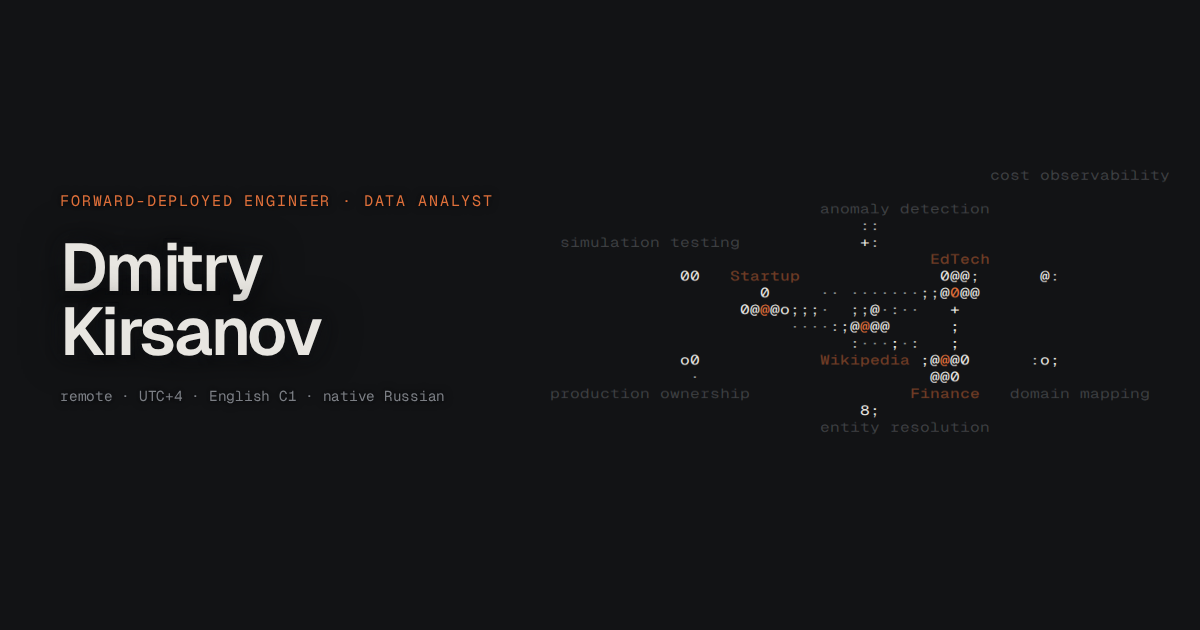
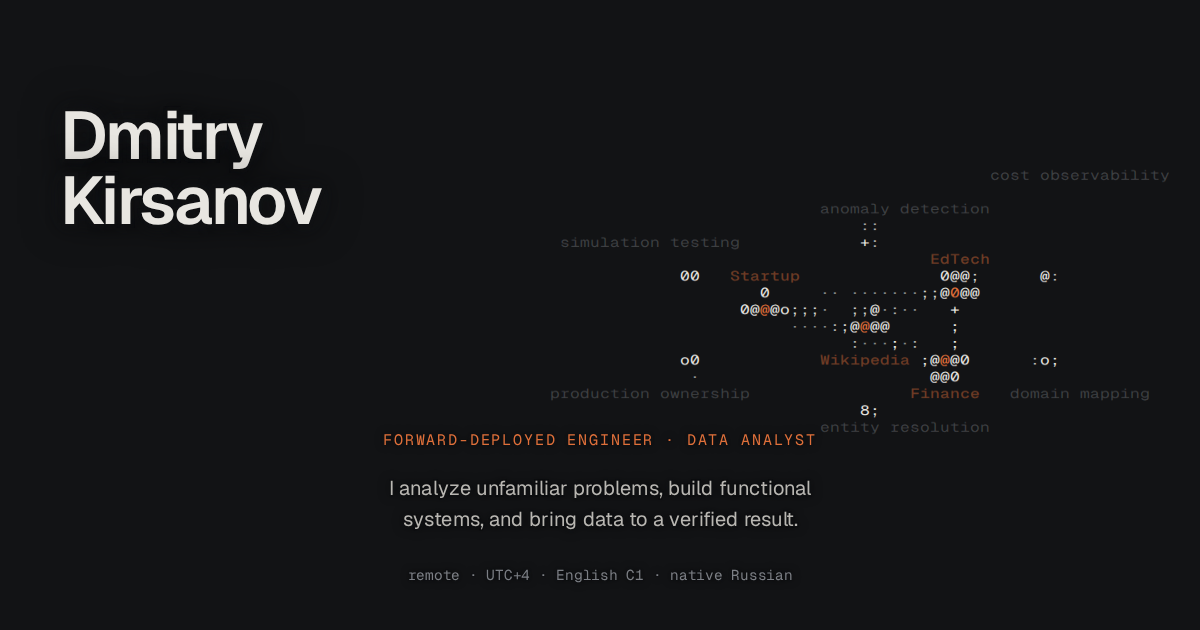
Hero: name at top, role and description bottom-centre; Cases as a section heading; case and Your Thing "+" as dark buttons; Other projects links shown without "+"; contact buttons of equal width, stacked on phones

diff --git a/src/landing.css b/src/landing.css
@@ -26,17 +26,22 @@ nav .cta{background:var(--ink);color:var(--bg);padding:8px 15px;border-radius:2p
 /* ——— хиро ——— */
 .hero{position:relative;height:100svh;min-height:600px}
 .hero canvas{position:absolute;inset:0;width:100%;height:100%}
-.hero .txt{position:absolute;left:var(--pad);top:50%;transform:translateY(-50%);max-width:min(48ch,44vw);
+.hero .txt{position:absolute;inset:calc(58px + clamp(20px,5vh,64px)) var(--pad) clamp(28px,7vh,72px);
+           display:flex;flex-direction:column;justify-content:space-between;align-items:flex-start;pointer-events:none;
            opacity:0;transition:opacity .7s ease;will-change:opacity}   /* свой слой заранее: появление — работа композитора, canvas не ждёт (10.10) */
+/* 28.10: имя — вверху слева, роль, описание и статус — внизу по центру; фигура между ними, текст на неё не ложится */
+.hero .txt > *{pointer-events:auto}
+.hero__low{align-self:center;text-align:center;max-width:56ch;text-wrap:balance}   /* строки описания ровные, без висячего слова */
 .hero .txt.on{opacity:1}
 /* тёмный ореол от букв: текст хиро лежит поверх поля знаков (08.10) */
 .hero .txt .role,.hero h1,.hero p.lead,.status{paint-order:stroke fill;-webkit-text-stroke:.12em var(--bg);text-shadow:0 0 .25em var(--bg),0 0 .6em var(--bg)}
 /* было 16 слоёв text-shadow с размытием до 60 px: растеризация такого слоя при появлении текста замораживала
    главный поток на ~0,3 с в середине отъезда фигуры (видео 10.10). Теперь обводка под буквами + два слоя */
-.hero h1{font-size:clamp(40px,5.6vw,80px);line-height:.96;letter-spacing:-.035em;font-weight:600;margin:0 0 16px}
+.hero h1{font-size:clamp(40px,5.6vw,80px);line-height:.96;letter-spacing:-.035em;font-weight:600;margin:0}
 .role{font-family:var(--mono);font-size:12px;letter-spacing:.14em;text-transform:uppercase;color:var(--accent);margin:0 0 18px}
 .hero p.lead{font-size:clamp(16px,1.35vw,20px);color:var(--mid);margin:0 0 22px}
-.status{font-family:var(--mono);font-size:11.5px;color:var(--dim);margin:0 0 26px}
+.status{font-family:var(--mono);font-size:11.5px;color:var(--dim);margin:0}
+.hero__low .btn{margin-top:26px}
 .btn{display:inline-block;background:var(--ink);color:var(--bg);text-decoration:none;font-weight:500;
      font-size:14.5px;padding:12px 22px;border-radius:2px}
 .btn.ghost{background:transparent;color:var(--ink);border:1px solid var(--line)}
@@ -56,10 +61,11 @@ h2{font-size:clamp(28px,3.4vw,46px);line-height:1.05;letter-spacing:-.025em;font
  a.case:hover{background:linear-gradient(90deg,rgba(224,112,58,.07),transparent 60%)}
 .case .tag{font-family:var(--mono);font-size:12px;color:var(--accent);letter-spacing:.02em}
 .case p.case__org{color:var(--mid);margin:0 0 8px;max-width:62ch}   /* 09.10: один блок, без мелкого серого моно */
-.case h3 button.case__t{appearance:none;background:none;border:0;padding:0;cursor:pointer;text-align:left;color:var(--ink);font:inherit;letter-spacing:inherit}
+/* 28.10: заголовки с «+» — тёмные кнопки, как .btn.ghost */
+.case h3 button.case__t{appearance:none;background:transparent;border:1px solid var(--line);border-radius:2px;padding:.4em .8em;margin:0 0 4px;cursor:pointer;text-align:left;color:var(--ink);font:inherit;letter-spacing:inherit}
 .case h3 button.case__t::after{content:' +';color:var(--accent);font-family:var(--mono);font-weight:400}
 .case h3 button.case__t[aria-expanded=true]::after{content:' –'}
-@media (hover:hover){.case h3 button.case__t:hover{color:var(--accent)}}
+@media (hover:hover){.case h3 button.case__t:hover{color:var(--accent);border-color:var(--dim)}}
 .case__more{margin:6px 0 0}
 .case__more[hidden]{display:none}
 .case__pts{margin:10px 0 0;padding:0 0 0 1.1em;color:var(--mid);font-size:15.5px;max-width:62ch}
@@ -103,12 +109,8 @@ a.al::after{content:' →';color:var(--accent);font-family:var(--mono);font-weig
 .links{display:flex;gap:12px;flex-wrap:wrap;margin:30px 0 0}
 .arts{display:grid;grid-template-columns:repeat(2,1fr);gap:0 40px}
 .art{display:block;border-top:1px solid var(--line);padding:20px 0}
-button.al{appearance:none;background:none;border:0;padding:0;cursor:pointer;text-align:left;color:var(--ink);font-family:var(--sans);font-size:16px;font-weight:500;margin:0 0 5px;line-height:1.4}
-button.al::after{content:' +';color:var(--accent);font-family:var(--mono);font-weight:400}
-button.al[aria-expanded=true]::after{content:' –'}
-@media (hover:hover){button.al:hover{color:var(--accent)}}
+.art p.al{color:var(--ink);font-size:16px;font-weight:500;margin:0 0 5px;line-height:1.4}   /* 28.10: без «+», ссылки ниже видны сразу */
 .art__links{display:flex;flex-wrap:wrap;gap:0 22px;align-items:baseline;margin:8px 0 0}
-.art__links[hidden]{display:none}
 .ext{display:inline-block;padding:9px 0;color:var(--ink);text-decoration:none;border-bottom:1px solid var(--line);font-size:15px}
 @media (hover:hover){.ext:hover{color:var(--accent);border-bottom-color:var(--accent)}}
 .more{font-size:16px;font-weight:500;margin:34px 0 0;color:var(--ink)}
@@ -122,12 +124,11 @@ button.al[aria-expanded=true]::after{content:' –'}
 .cloudbox canvas{position:absolute;inset:0;width:100%;height:100%}
 .cloudbox{transition:height .9s cubic-bezier(.2,.7,.2,1),transform .12s ease-out}
 /* название теста с «+» — внутри «мозга», по центру коробки */
-.space__name{position:absolute;left:50%;top:50%;transform:translate(-50%,-50%);z-index:2;appearance:none;background:none;border:0;padding:6px 10px;
-  cursor:pointer;color:var(--ink);font-family:var(--sans);font-size:clamp(22px,2.4vw,32px);font-weight:600;letter-spacing:-.02em;white-space:nowrap;
-  text-shadow:0 0 2px var(--bg2),0 0 3px var(--bg2),0 0 6px var(--bg2),0 0 6px var(--bg2),0 0 12px var(--bg2),0 0 12px var(--bg2),0 0 22px var(--bg2),0 0 34px var(--bg2)}
+.space__name{position:absolute;left:50%;top:50%;transform:translate(-50%,-50%);z-index:2;appearance:none;background:var(--bg);border:1px solid var(--line);border-radius:2px;padding:.3em .7em;
+  cursor:pointer;color:var(--ink);font-family:var(--sans);font-size:clamp(22px,2.4vw,32px);font-weight:600;letter-spacing:-.02em;white-space:nowrap}   /* 28.10: тёмная кнопка поверх облака */
 .space__name::after{content:' +';color:var(--accent);font-family:var(--mono);font-weight:400;font-size:.62em;vertical-align:.12em}
 .space__name[aria-expanded=true]::after{content:' –'}
-@media (hover:hover){.space__name:hover{color:var(--accent)}}
+@media (hover:hover){.space__name:hover{color:var(--accent);border-color:var(--dim)}}
 .space__more{height:0;overflow:hidden;transition:height .7s cubic-bezier(.2,.7,.2,1)}
 .space__more p{color:var(--mid);max-width:62ch;margin:0 0 26px}
 .cloudbox .cap{position:absolute;left:20px;right:20px;bottom:14px;background:linear-gradient(180deg,transparent,#17181B 42%);padding-top:14px;font-family:var(--mono);font-size:10.5px;color:var(--dim)}
@@ -146,7 +147,8 @@ button.al[aria-expanded=true]::after{content:' –'}
 /* финальный призыв */
 .end{text-align:center;padding:clamp(90px,12vw,180px) 0}
 .end h2{margin:0 auto 26px;font-size:clamp(34px,5vw,68px);max-width:16ch;letter-spacing:-.03em}
-.end .row{display:flex;gap:12px;justify-content:center;flex-wrap:wrap}
+.end .row{display:inline-grid;grid-template-columns:1fr 1fr;gap:12px}   /* 28.10: обе кнопки одной ширины — по самой длинной */
+.end .row .btn{text-align:center}
 footer{border-top:1px solid var(--line);padding:26px 0 40px;font-family:var(--mono);font-size:11px;color:var(--dim);
        display:flex;gap:20px;flex-wrap:wrap}
 footer a{text-decoration:none}
@@ -157,7 +159,6 @@ footer a{text-decoration:none}
       color:#121315;background:#6E7378;padding:1px 6px;border-radius:2px;vertical-align:2px;margin-left:8px}
 
 @media (max-width:900px){
-  .hero .txt{max-width:none;right:var(--pad)}
   .steps,.arts{grid-template-columns:1fr}
   .case{grid-template-columns:1fr;gap:6px}
 }
@@ -165,6 +166,7 @@ footer a{text-decoration:none}
   nav .wrap{gap:16px}
   nav .wrap > a:not(.cta){display:none}
   nav .lang,nav .cta{white-space:nowrap}
+  .end .row{grid-template-columns:1fr}   /* на телефоне кнопки друг над другом */
 }
 /* «убрать анимацию» в системе: без переходов, плавной прокрутки и сдвигов; секции видны сразу (холсты — в field.js) */
 @media (prefers-reduced-motion:reduce){

diff --git a/src/landing.js b/src/landing.js
@@ -28,14 +28,11 @@ function setCase(card, open) {
   card.classList.toggle('open', open); m.hidden = !open; t.setAttribute('aria-expanded', open ? 'true' : 'false');
   list.classList.toggle('focus', open);
 }
-document.addEventListener('click', function (ev) {          /* карточка «Других проектов»: ссылки разворачиваются, как профессии в «Кем быть» */
+document.addEventListener('click', function (ev) {          /* 28.10: ссылки «Других проектов» видны сразу, «+» остался только у кейсов */
   var a = ev.target.closest('a.tocase');
   if (a) { var c = document.getElementById(a.getAttribute('href').slice(1)); if (c) setCase(c, true); return; }
-  var b = ev.target.closest('button.al, button.case__t'); if (!b) return;
-  var card = b.closest('.art, .case');
-  if (card.classList.contains('case')) { setCase(card, card.querySelector('.case__more').hidden); return; }
-  var box = card.querySelector('.art__links'); box.hidden = !box.hidden;
-  b.setAttribute('aria-expanded', box.hidden ? 'false' : 'true');
+  var b = ev.target.closest('button.case__t'); if (!b) return;
+  var card = b.closest('.case'); setCase(card, card.querySelector('.case__more').hidden);
 });
 /* «Кем быть»: «+» у заголовка раскрывает описание и облако; при прокрутке вниз раскрытое сначала
    сворачивается, потом страница едет; свёрнутое само не раскрывается (08.10) */
